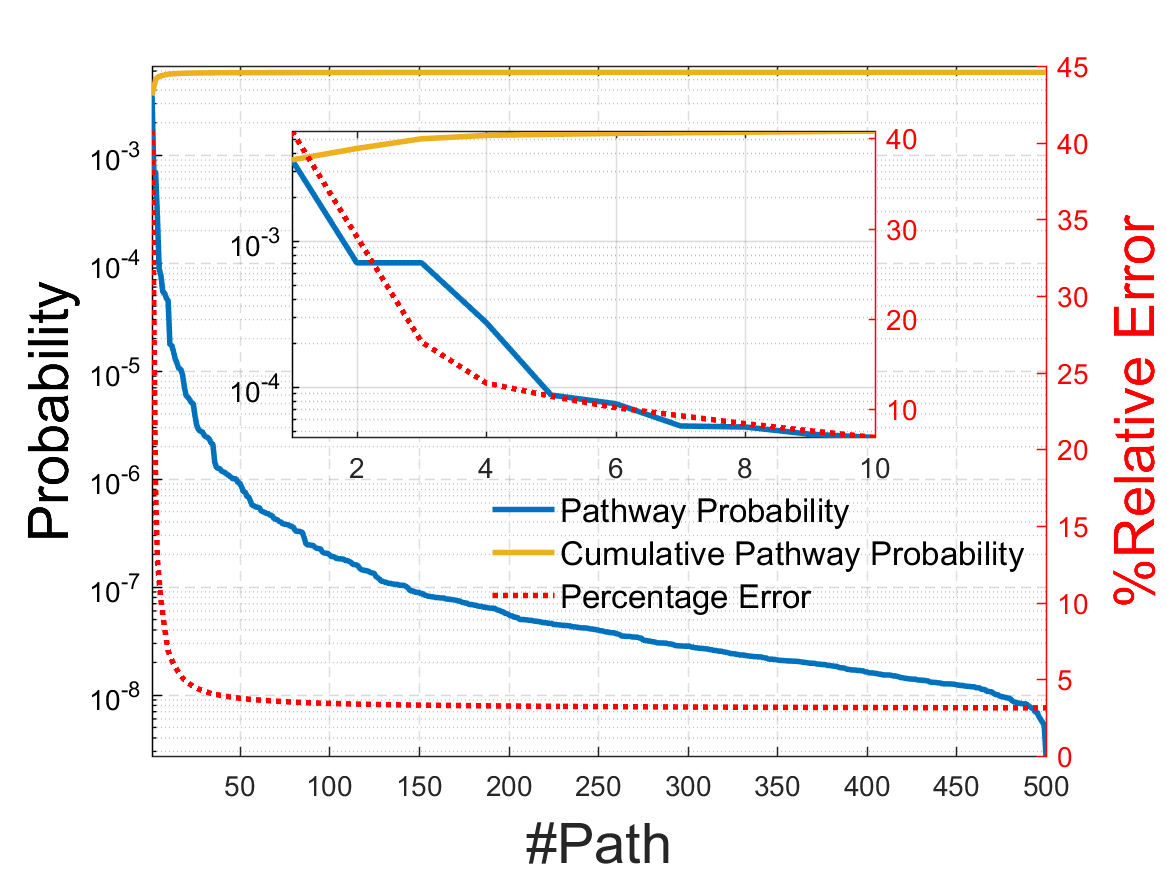
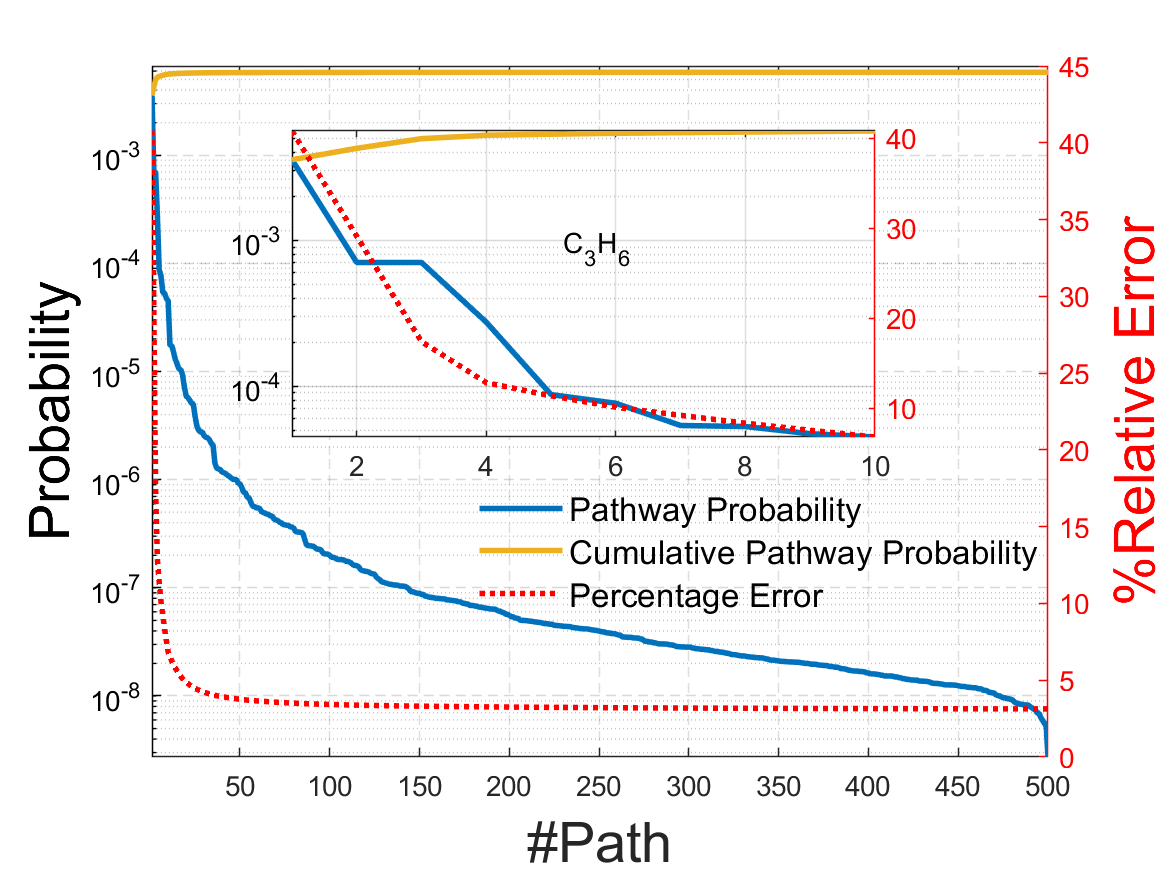
minor

diff --git a/theory/misc/trajectory_convergence/trajectory_convergence_3.m b/theory/misc/trajectory_convergence/trajectory_convergence_3.m
@@ -1,5 +1,6 @@
 %% global settings
 spe_idx=59;
+spe_name='C_3H_6';
 folder1 = '0.5tau';
 tau = '0.777660157519';
 end_t = '0.5';
@@ -113,6 +114,10 @@ grid on;
 yyaxis right
 semilogy(path_idx(1:delta_2:end_idx2), error_data1(1:delta_2:end_idx2), ... 
     'LineStyle', ':', 'LineWidth', 2, 'color', 'r'); hold on;
+a_x = gca;
+t_x = a_x.XLim(1) + 0.465*(a_x.XLim(2) - a_x.XLim(1));
+t_y = a_x.YLim(1) + 0.618*(a_x.YLim(2) - a_x.YLim(1));
+text(t_x, t_y, spe_name);
 
 %% save to file
 figname = strcat('pathway_prob_concentration_',num2str(spe_idx), '.png');

diff --git a/theory/misc/trajectory_convergence/trajectory_convergence_2.m b/theory/misc/trajectory_convergence/trajectory_convergence_2.m
@@ -1,5 +1,6 @@
 %% global settings
 spe_idx=17;
+spe_name='CH_2O';
 folder1 = '0.5tau';
 tau = '0.777660157519';
 end_t = '0.5';
@@ -113,6 +114,10 @@ grid on;
 yyaxis right
 semilogy(path_idx(1:delta_2:end_idx2), error_data1(1:delta_2:end_idx2), ... 
     'LineStyle', ':', 'LineWidth', 2, 'color', 'r'); hold on;
+a_x = gca;
+t_x = a_x.XLim(1) + 0.465*(a_x.XLim(2) - a_x.XLim(1));
+t_y = a_x.YLim(1) + 0.618*(a_x.YLim(2) - a_x.YLim(1));
+text(t_x, t_y, spe_name);
 
 %% save to file
 figname = strcat('pathway_prob_concentration_',num2str(spe_idx), '.png');

diff --git a/theory/misc/trajectory_convergence/trajectory_convergence_1.m b/theory/misc/trajectory_convergence/trajectory_convergence_1.m
@@ -1,5 +1,6 @@
 %% global settings
 spe_idx=14;
+spe_name='CO';
 folder1 = '0.5tau';
 tau = '0.777660157519';
 end_t = '0.5';
@@ -113,6 +114,10 @@ grid on;
 yyaxis right
 semilogy(path_idx(1:delta_2:end_idx2), error_data1(1:delta_2:end_idx2), ... 
     'LineStyle', ':', 'LineWidth', 2, 'color', 'r'); hold on;
+a_x = gca;
+t_x = a_x.XLim(1) + 0.465*(a_x.XLim(2) - a_x.XLim(1));
+t_y = a_x.YLim(1) + 0.618*(a_x.YLim(2) - a_x.YLim(1));
+text(t_x, t_y, spe_name);
 
 %% save to file
 figname = strcat('pathway_prob_concentration_',num2str(spe_idx), '.png');
